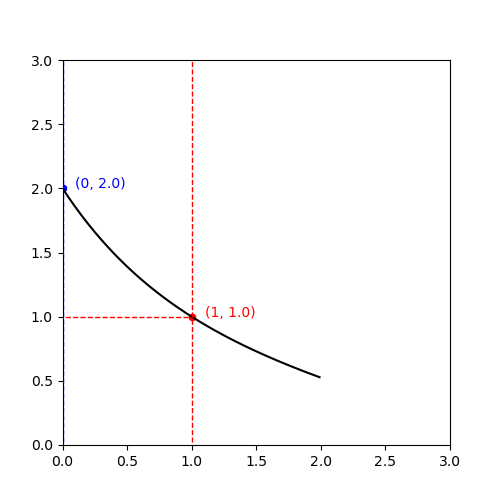
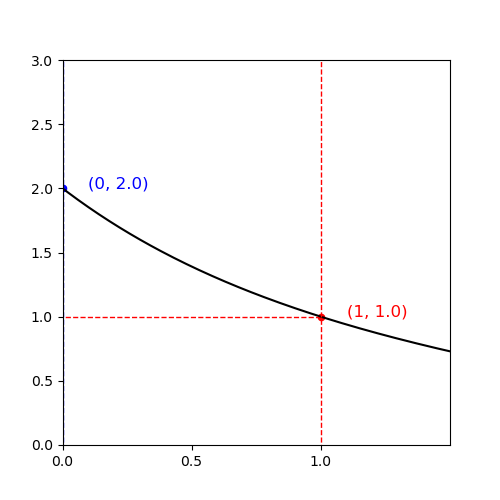
-
-

diff --git a/image_task/image_preprocessing/my_function.py b/image_task/image_preprocessing/my_function.py
@@ -26,9 +26,11 @@ y5 = np.ones((x5.shape)) * 1
 
 
 fig, ax = plt.subplots(figsize=(5, 5))
+plt.rcParams['font.size'] = 12 # 개별적용 - plt.yticks(fontsize=20)
 
-ax.set_xlim([0, 3])
+ax.set_xlim([0, 1.5])
 ax.set_ylim([0, 3])
+ax.set_xticks([0, 0.5, 1])
 
 ax.plot(x, y, c='black')
 ax.plot(x0, y0, c='blue', linewidth=1.0, linestyle = '--')
